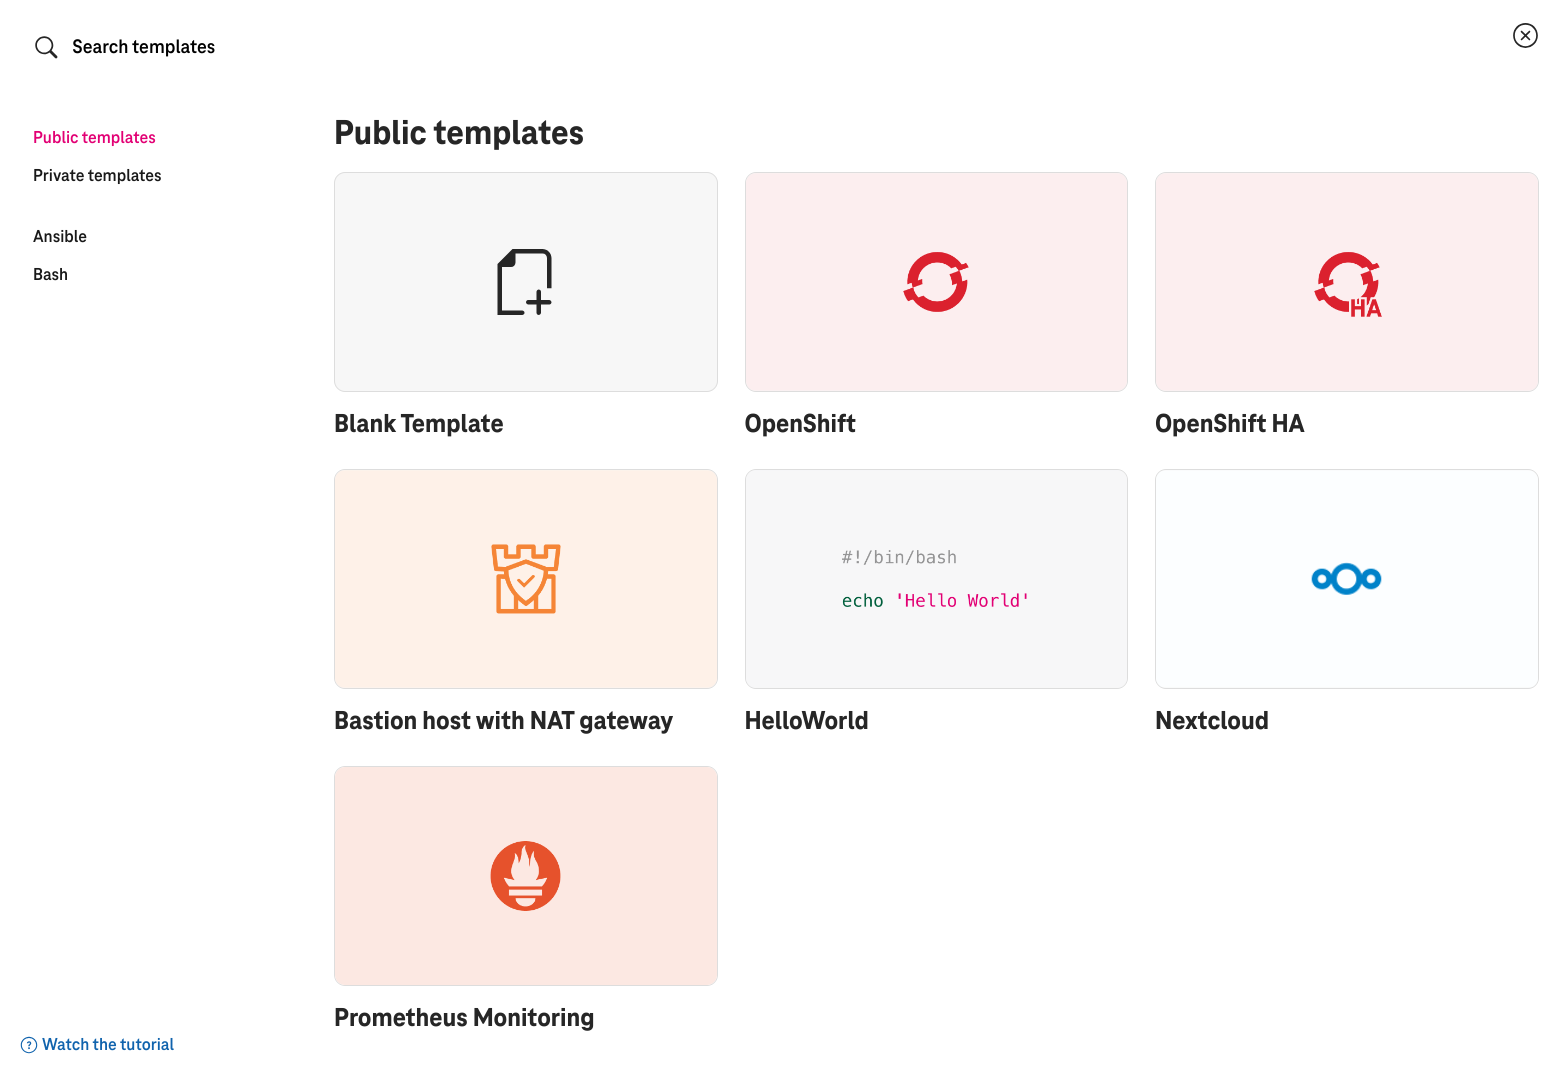
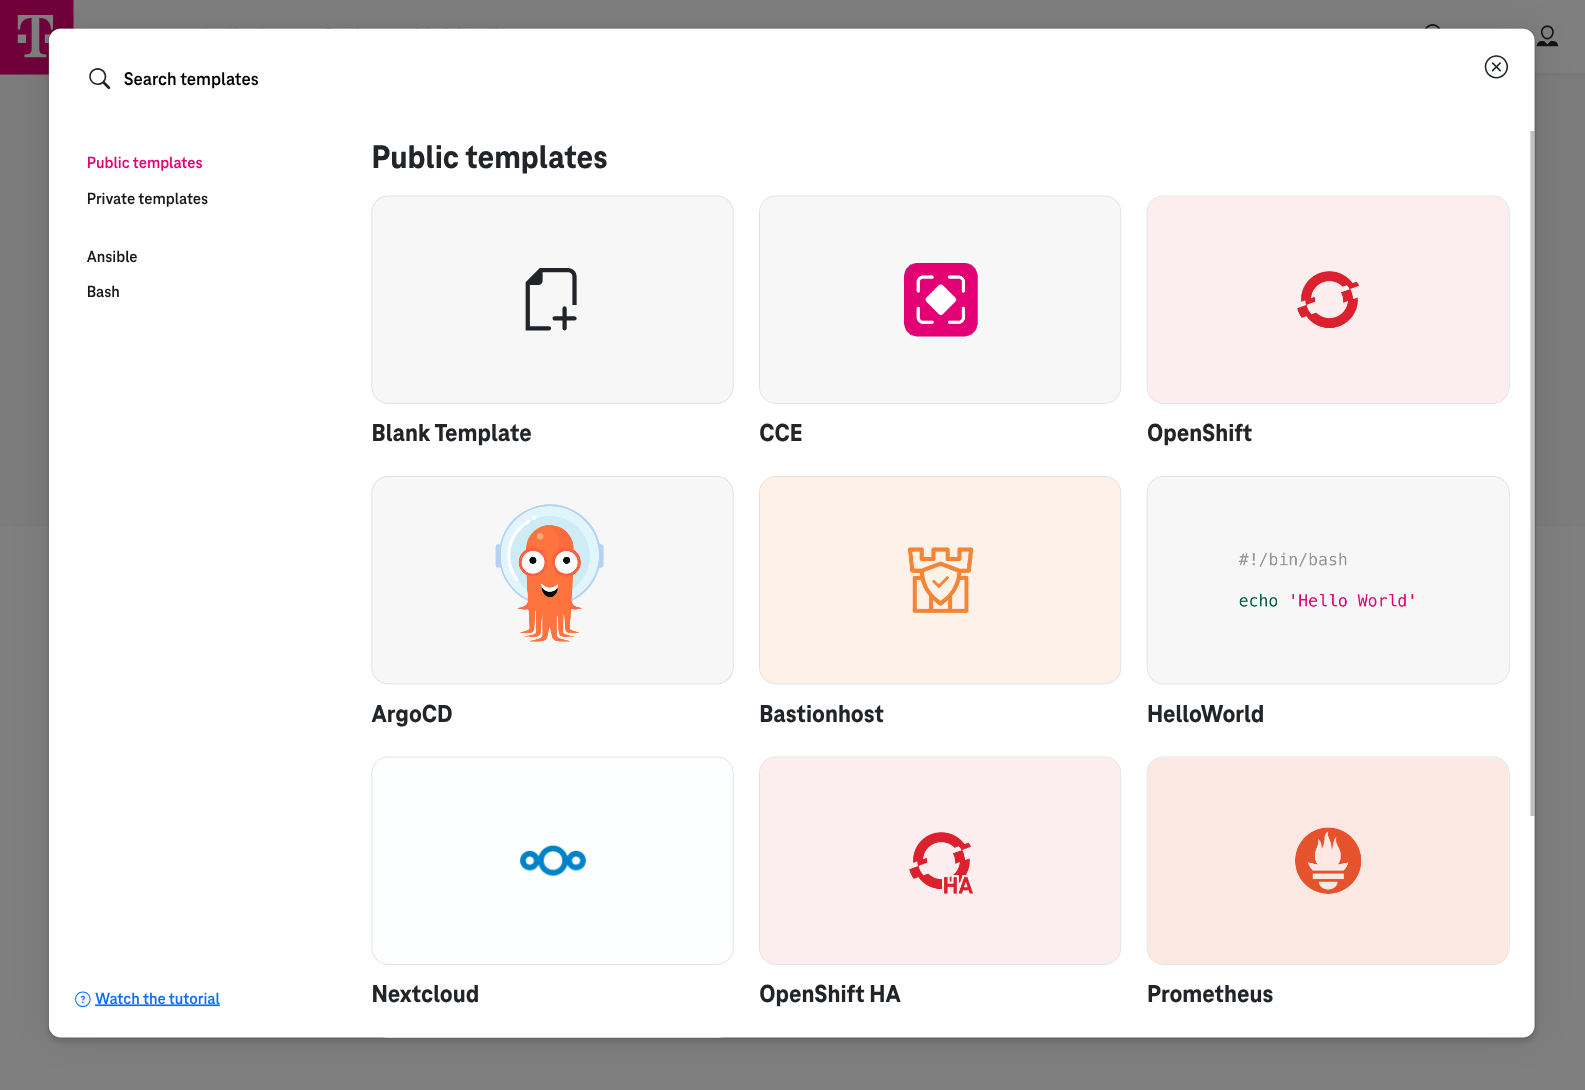
Enhance with marketing (#41)
Enhance docs with marketing

diff --git a/umn/source/index.rst b/umn/source/index.rst
@@ -34,70 +34,93 @@ Quick introduction
 1. Overview
 ===========
 
-Cloud Create is a **free-to-use** Cloud Management Platform to create applications from **premade templates** on Open Telekom Cloud and Swiss Open Telekom Cloud **fast**.
+Cloud Create is a **free-to-use** Cloud Management Platform that lets you build and deploy applications in minutes using **premade templates**—no deep cloud expertise required.
+
+Whether you're working on **Open Telekom Cloud** or **Swiss Open Telekom Cloud**, Cloud Create empowers you to go from idea to running infrastructure with speed and simplicity.
 
 .. figure:: /_static/images/features/overview1.png
   :width: 700
 
   Figure 1. Overview
 
-2. How
-======
+2. Design. Deploy. Done.
+========================
 
-Users can:
+Cloud Create makes cloud-native development simple, fast, and collaborative. Whether you're deploying your apps on OpenShift or a Cloud Container Engine (CCE), you can go from ideas to cloud in minutes:
 
-1. Create an app from a premade template (e.g., the :ref:`openshift`).
-2. Visually design and customize the template to fit their needs.
-3. Deploy and update the app on Open Telekom Cloud.
-4. Save the app as a private template and share it within your project, or publish it on Open Telekom Cloud for everyone to reuse.
+**1. Start with a premade template**
+
+Choose from production-ready templates like :ref:`OpenShift`, :ref:`cce`, or :ref:`argocd`—no setup headaches, just ready-to-go blueprints.
+
+**2. Visually design and customize**
+
+Use the drag-and-drop visual designer to tailor infrastructure, software components, and automation to your exact needs—without writing complex YAML or Terraform.
+
+**3. Deploy and update**
+
+Launch your app with a single click. Need to make changes later? Redeploy updates just as easily, directly from the visual interface.
+
+**4. Save and share your work**
+
+Turn your customized app into a private template for your team, or publish it publicly on Open Telekom Cloud so others can benefit from your expertise.
 
 .. figure:: /_static/images/features/overview.png
   :width: 900
 
-  Figure 2. Features
+  Figure 2. From Idea to Cloud in Just Four Steps
 
-2.1. How cloud architects design the application
-------------------------------------------------
+2.1. Visual Cloud Development Made Effortless
+---------------------------------------------
 
-Cloud architects and engineers can design the application from scratch or from premade templates. First, they select a template:
+With Cloud Create, building and deploying cloud-native applications is as easy as drag, drop, and click. Use our intuitive **visual designer** to architect your full-stack application—starting from **premade templates** or building from scratch:
 
 .. figure:: /_static/images/features/overview-templates.png
   :width: 800
 
-  Figure 3. Select an app template to start.
+  Figure 3. Select a premade template to start
 
-Then choose "quick deploy" or start a new design from the template:
+You have the flexibility to **quickly deploy** applications using premade templates—or use them as a starting point to **visually design and customize** your cloud architecture.
 
 .. figure:: /_static/images/features/overview-templates2.png
   :width: 800
 
-  Figure 4. Quick deploy OpenShift or Design using this template.
+  Figure 4. Quick deploy or design using the template
 
-Cloud Create also comes up with a visual designer for less-coding or no-coding. Developers can drag and drop the components together like lego bricks as in the following example:
+You can seamlessly combine **infrastructure components** like compute, networking, storage, Cloud Container Engine and powerful tools like **Bash**, **Ansible**, **Helm**, **Argo CD**, etc in one single template for a **full-stack automation**:
 
-.. figure:: /_static/images/features/overview-design.png
+.. figure:: /_static/images/service-catalogs/argocd0.png
   :width: 800
 
-  Figure 5. An example with network, compute, ansible, bash scripts, and Grafana component.
+  Figure 5. Visual Design a full-stack application
 
-* In the above example, the network and compute are **infrastructure** components. AnsibleTasks, Bash, and Grafana are **service** components.
-* By using the Ansible and Bash components, developers can write code to execute on a compute directly.
-* Grafana is an example of a service component. Developers can define new services and import them to the designer as well. More details on Section :ref:`How to define and import a new service`.
+2.2. Extend What’s Possible with Custom TOSCA Services
+------------------------------------------------------
+
+With Cloud Create, you're not limited to what's out of the box. Cloud engineers can define new services using the open TOSCA format and seamlessly import them into the visual designer.
+
+Whether it's a custom VM setup, a specialized software stack, or a reusable infrastructure pattern—define it once in TOSCA, then drag-and-drop it like any built-in components.
 
 .. note::
-   * App templates and service components are `opensource and available on our Github <https://github.com/opentelekomcloud-blueprints/tosca-service-catalogs>`_.
+   * Read more about :ref:`How to define and import a new service`.
+   * Our premade templates and service catalogs are `opensource and available on our Github <https://github.com/opentelekomcloud-blueprints/tosca-service-catalogs>`_.
 
-2.2. How administrators deploy the application
-----------------------------------------------
+2.3. Seamless, Transparent Deployment for Administrators
+--------------------------------------------------------
 
-In the **Deploy** Section, administrators can choose which **Version** to deploy, provide **Inputs**, and select a cloud provider (e.g., Open Telekom Cloud) to deploy. In addition, they can review the workflow before it starts.
+When your design is ready, simply hit “Deploy”—and Cloud Create will provision everything for you on Open Telekom Cloud in just minutes. Deploying applications with Cloud Create is simple, controlled, and fully transparent:
+
+**1. Select, Configure, and Launch**
+
+In the **Deploy** section, administrators choose the desired **application version**, fill in required **inputs**, and select a **cloud provider**—like Open Telekom Cloud. Before launching, they can easily **review the deployment workflow** to ensure everything is ready.
 
 .. figure:: /_static/images/features/overview-deploy.png
   :width: 800
 
   Figure 6. Administrators select Open Telekom Cloud to deploy
 
-During the deployment, administrators can interactively click on a workflow step and see **Terraform** is applied for the infrastructure components. For the service components, they can see Ansible is applied on the target compute.
+**2. Interactive, Step-by-Step Execution**
+
+During deployment, administrators can **follow each step in real time**. Click on any stages to see exactly what's happening—**Terraform** automates infrastructure provisioning, while **Ansible** configures services on the target compute. Full visibility. Full control.
 
 .. figure:: /_static/images/features/deployment_logs.png
   :width: 800

diff --git a/umn/source/service_catalogs/argocd.rst b/umn/source/service_catalogs/argocd.rst
@@ -11,6 +11,9 @@ Argo CD template
 1. About
 ========
 
+.. figure:: /_static/images/service-catalogs/argocd.png
+  :width: 900
+
 **GitOps-Driven App Deployment on CCE—Powered by Argo CD and Cloud Create**
 
 With Cloud Create, deploying your applications to the cloud has never been easier—or faster. In just a few clicks, you can spin up a Cloud Container Engine (CCE) cluster and launch your apps using Argo CD, the leading GitOps tool.
